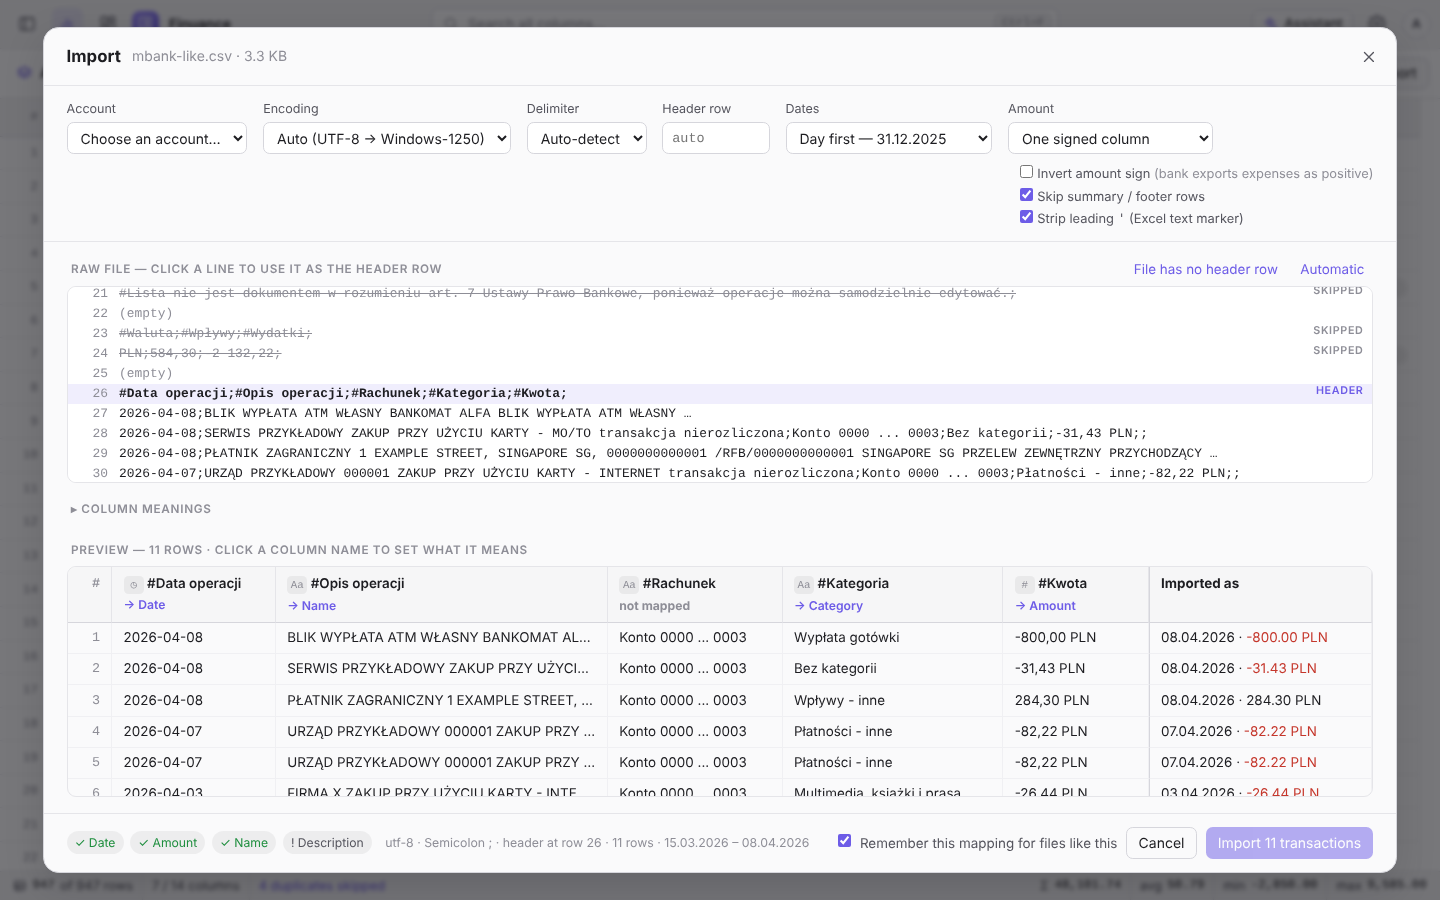
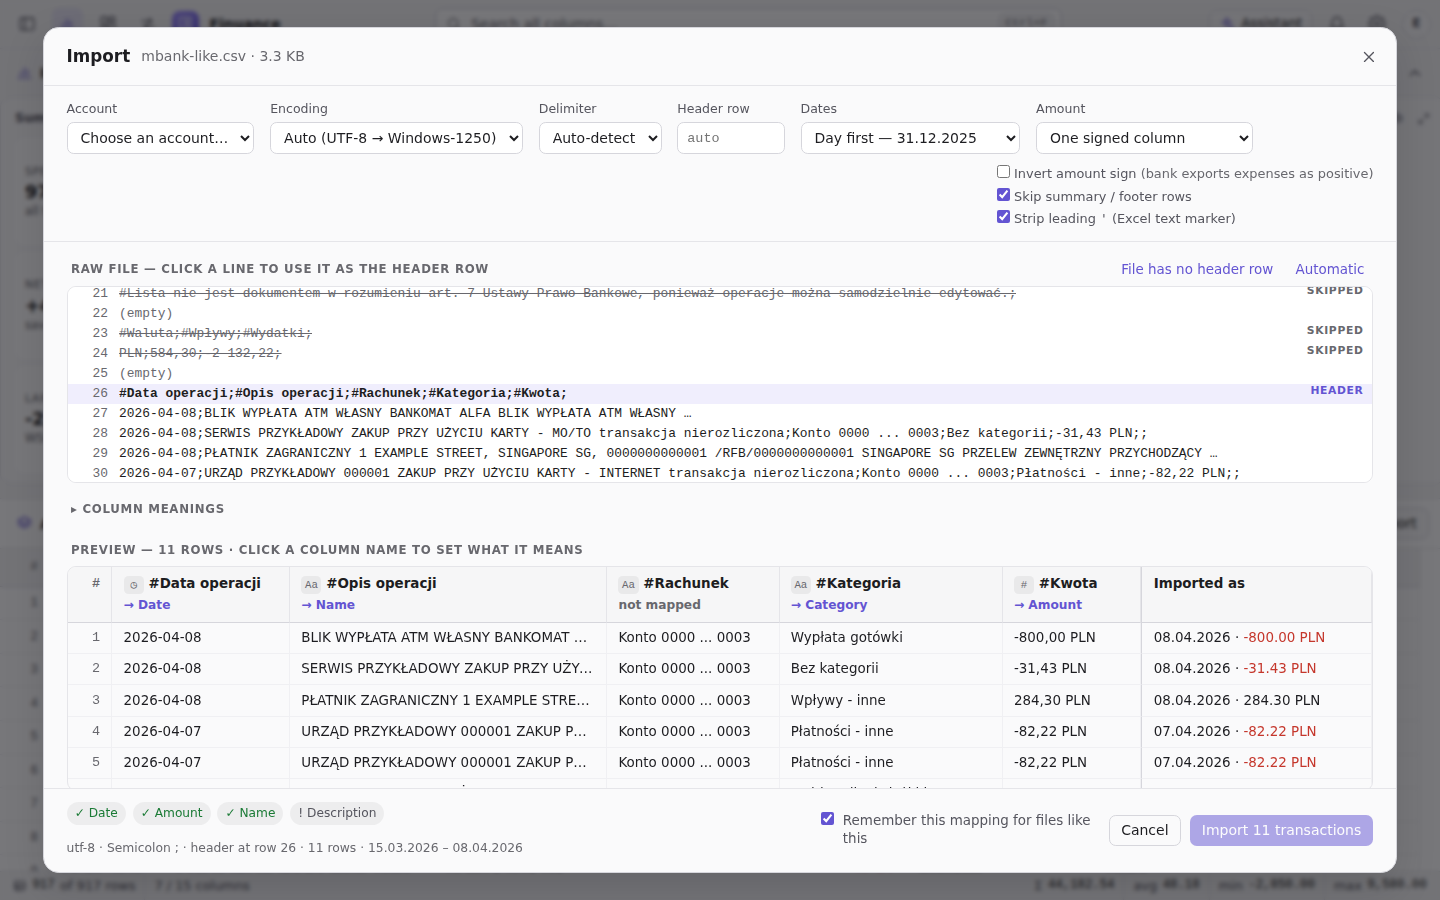
docs(readme): the pictures taken again with the darker Indigo; the assistant's picture first
Claude-Session: https://claude.ai/code/session_014t3hjmjLCJTfWAg3anne9C

diff --git a/docs/PROGRESS.md b/docs/PROGRESS.md
@@ -72,7 +72,7 @@ Decisions at the phase start (the maintainer, 2026-11-26): the twenty correction
 - [x] F19 `T` and `O` — 2026-11-26 (pull request 1): the transactions and the overview from any page, in the shortcuts window; Ctrl/⌘ O still opens files
 - [x] F7 *Add* on every account — 2026-11-26 (pull request 2): the toolbar's *Add* and `N` in every account (`shell/Views.tsx` `addTarget`); with all accounts in view the form asks which, starting on a cash account; a bank account's form says that a later import's own row is offered for merging; a row typed by hand carries a green plus (`source: Manual`), the sparkle alone when the assistant changed it. No server change: the API has taken typed rows in bank accounts since ADR 0032; ADR 0029 has an addendum. The cash test rewritten for the new rule
 - [x] F8 pictures and PDFs by drag and drop — 2026-11-26 (pull request 2): drop zones (`data-drop`): the transactions list, the start screen and the sidebar's zone take files, the assistant's panel pictures and PDFs, nothing else does (the browser is still kept from opening the file); the overlay lies over the zone and says where the files go. A statement is imported; a picture or a PDF opens the assistant and is attached (`assistant/drops.ts`); 10 MB a file, three pictures a question, one message for what was left out. PDFs: `assistant/pdf.ts` draws the first pages with **`pdfjs-dist` 6.5.438** (its "legacy" build, loaded on demand) to JPEGs of at most 1600 px. Found on the way, each in a real browser against the lab: the package's worker is a `.mjs` file, which nginx sends as `application/octet-stream`, so it never started (built as its own `.js` script now); the default build needs `Map.getOrInsertComputed`, which the pinned Chromium lacks (the legacy build); a worker that can't start now ends in a message after at most 30 s. Under the lab's real policy (Trusted Types, `worker-src 'self'`, no WebAssembly) a two-page PDF printed by the browser arrives as two pictures with no console error. Unit tests for the sorting, the panel and the zones; an E2E case (a PDF and a picture on the list, none on the charts pane)
-- [ ] F3 the README's pictures — so far (2026-11-26, pull request 2): `e2e/screenshots.spec.ts` takes the README's eight scenes in both themes (`screenshots/readme/`, kept in CI's artifact). Left: copy them from the pull request's CI run into `docs/screenshots/` and swap the README's first picture with the assistant's
+- [x] F3 the README's pictures — 2026-11-26 (pull request 2): `e2e/screenshots.spec.ts` takes the README's eight scenes in both themes (`screenshots/readme/`, kept in CI's artifact); the sixteen pictures in `docs/screenshots/` are the ones of this pull request's own CI run (45752679280), with the darker Indigo; the README opens with the assistant's picture, and the overview's is where the assistant's was. The pull request's first run failed in the two new scenes (a test picture that was no picture; a row selection that started on the row still selected), both fixed in the tests
 
 Phase 26 — Cloud AI, with the interface corrections first (PLAN §9, "26.U" and 26.0–26.9). Confirmed on 2026-11-25.
 

diff --git a/README.md b/README.md
@@ -7,8 +7,8 @@
 [![License: MIT](https://img.shields.io/badge/license-MIT-blue.svg)](LICENSE)
 
 <picture>
-  <source media="(prefers-color-scheme: dark)" srcset="docs/screenshots/overview-dark.png">
-  <img alt="The monthly overview: KPIs, highlights, cash flow, budgets and recurring payments" src="docs/screenshots/overview-light.png">
+  <source media="(prefers-color-scheme: dark)" srcset="docs/screenshots/assistant-dark.png">
+  <img alt="The assistant panel next to the table: a lookup, what was sent to the model, and the answer" src="docs/screenshots/assistant-light.png">
 </picture>
 
 Finuance is a Go API and worker, PostgreSQL and a React app. I built it to replace a single-file prototype I had been using for my own statements, and to learn what it takes to run a small product properly: several users, real deployments, backups that have been restored, alerts, security scans.
@@ -34,8 +34,8 @@ Finuance is a Go API and worker, PostgreSQL and a React app. I built it to repla
 The full list, with the filter language and how duplicates are recognised: [docs/features.md](docs/features.md).
 
 <picture>
-  <source media="(prefers-color-scheme: dark)" srcset="docs/screenshots/assistant-dark.png">
-  <img alt="The assistant panel next to the table: a lookup, what was sent to the model, and the answer" src="docs/screenshots/assistant-light.png">
+  <source media="(prefers-color-scheme: dark)" srcset="docs/screenshots/overview-dark.png">
+  <img alt="The monthly overview: KPIs, highlights, cash flow, budgets and recurring payments" src="docs/screenshots/overview-light.png">
 </picture>
 
 ## Tech stack
